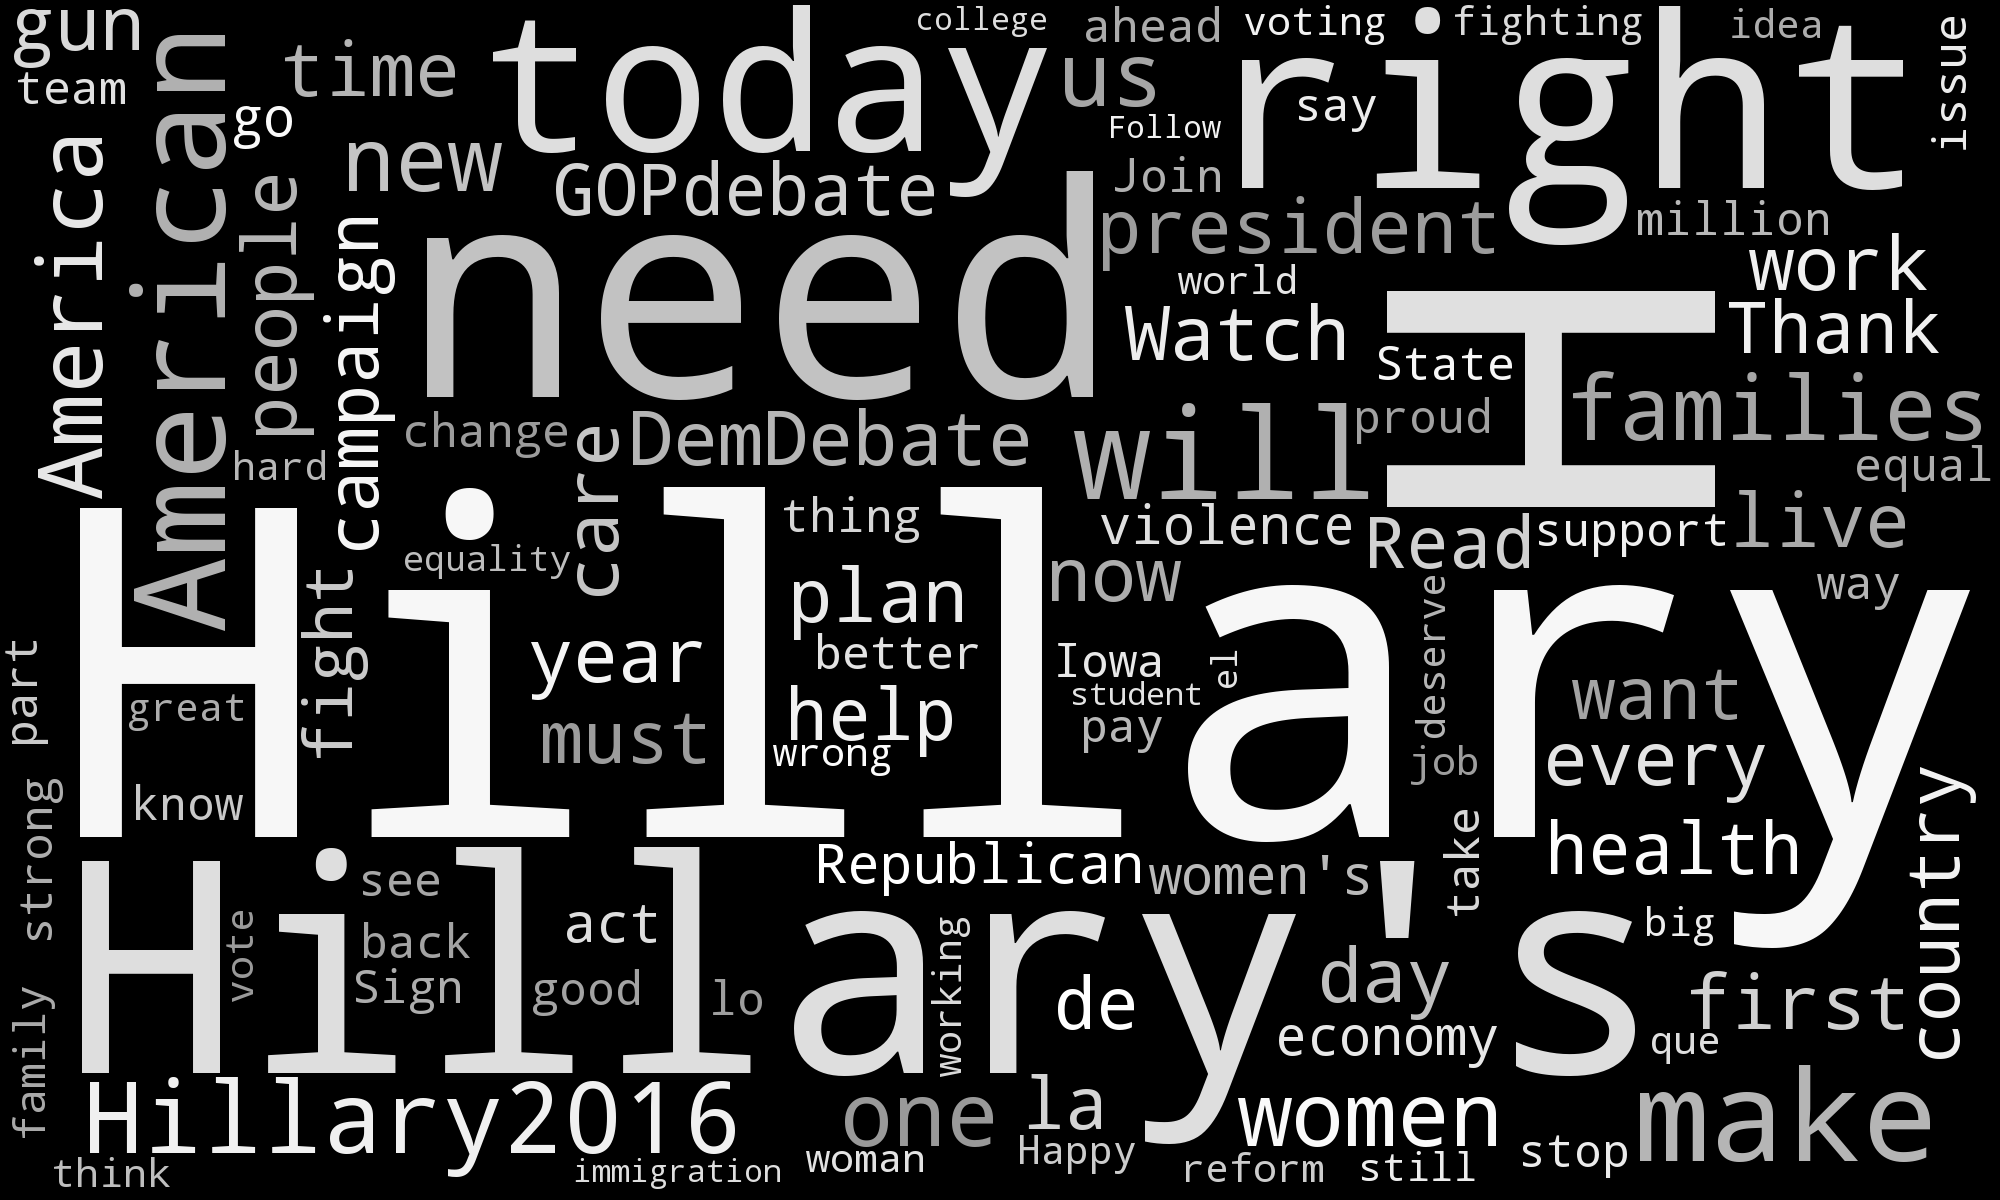
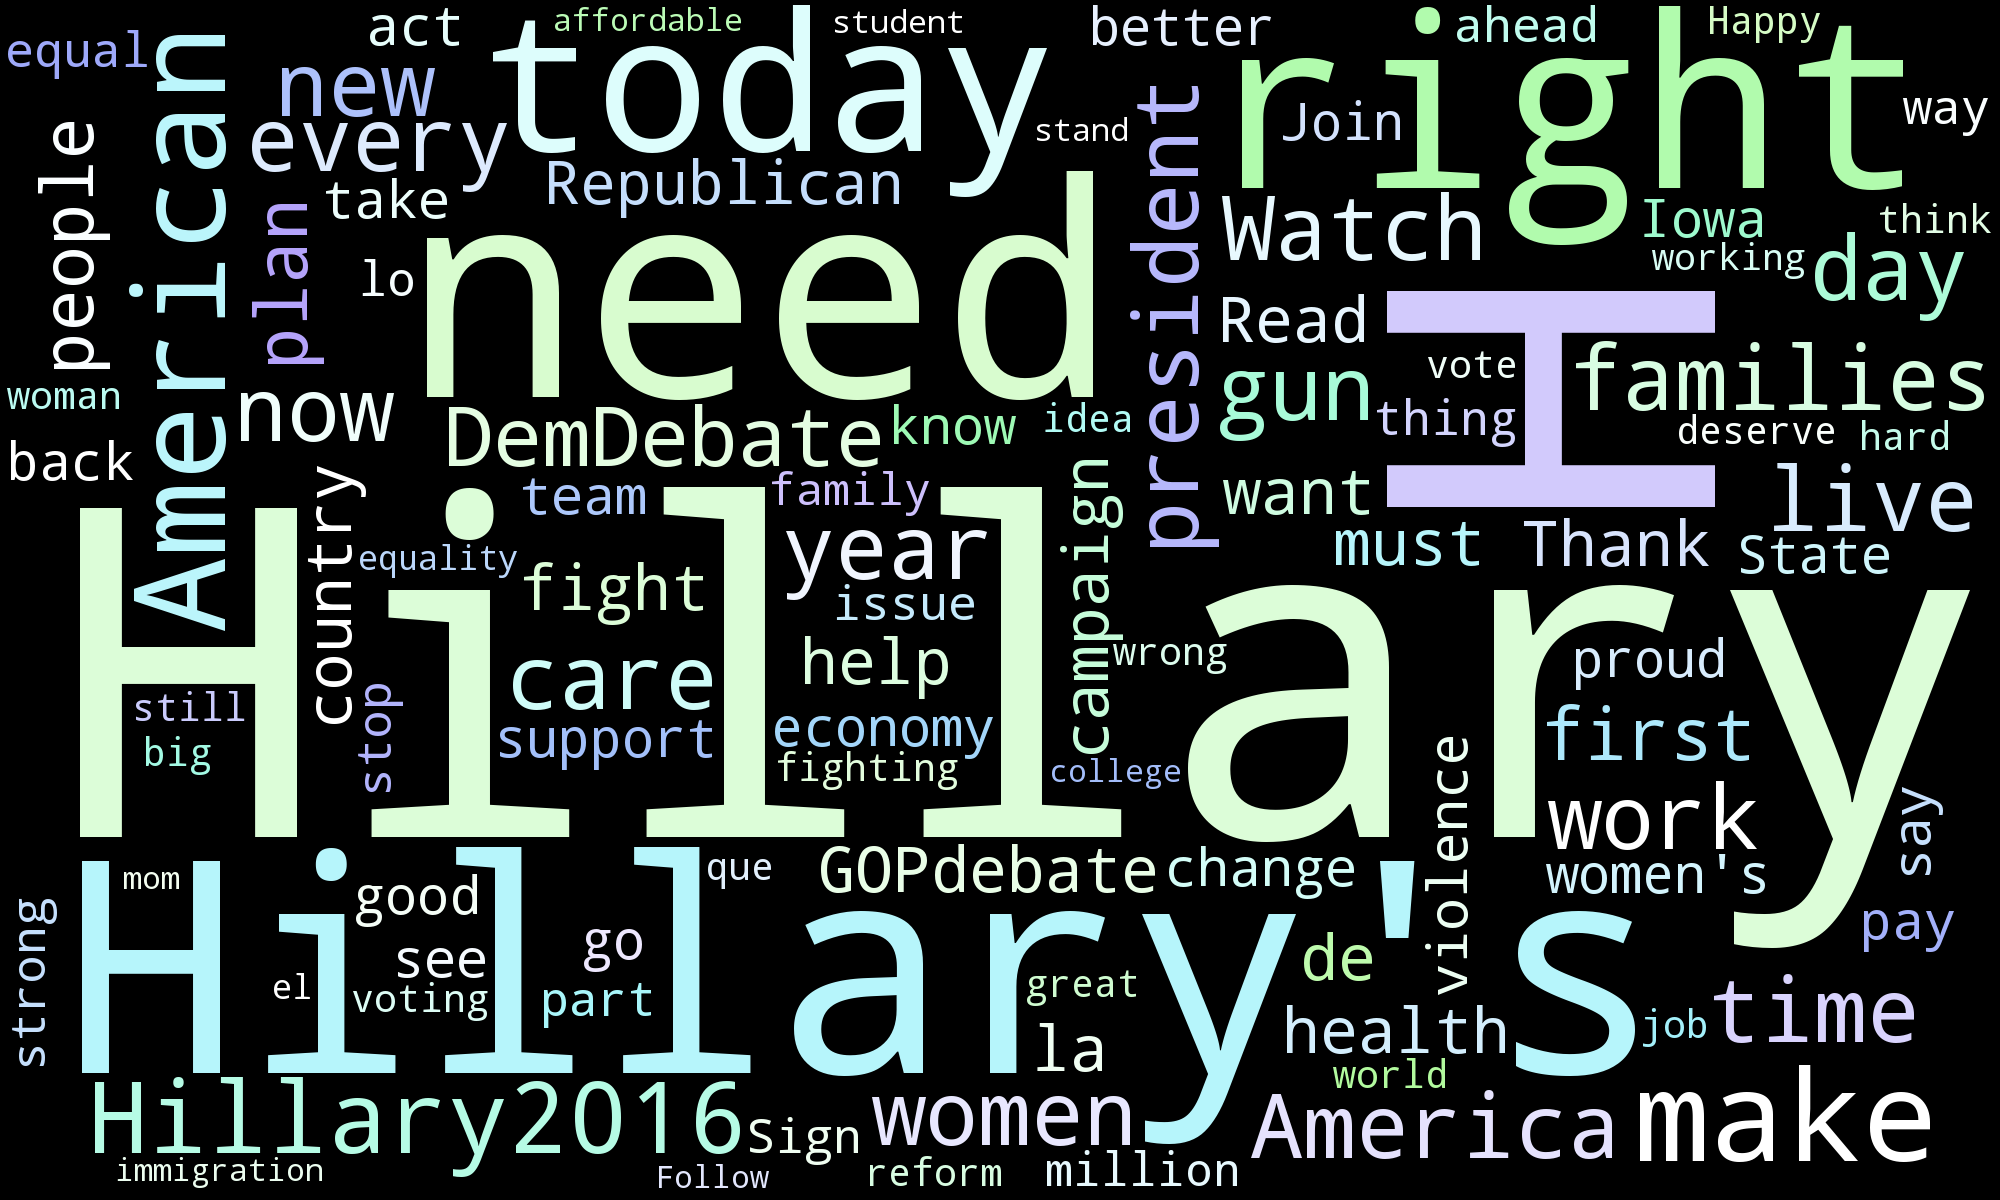
--

diff --git a/makeWordCloud.py b/makeWordCloud.py
@@ -7,7 +7,7 @@ from cleanTweets import clean_text
 from wordcloud import WordCloud, STOPWORDS
 
 def my_color_func(word, font_size, position, orientation, random_state=None, **kwargs):
-    return "hsl(%d, %d%%, %d%%)" % (random.randint(0, 60), 60, random.randint(60, 100))
+    return "hsl(%d, %d%%, %d%%)" % (random.randint(100, 256), 90, random.randint(80, 100))
 
 # Read the text.
 with open('tweets.txt', 'rb') as f:
